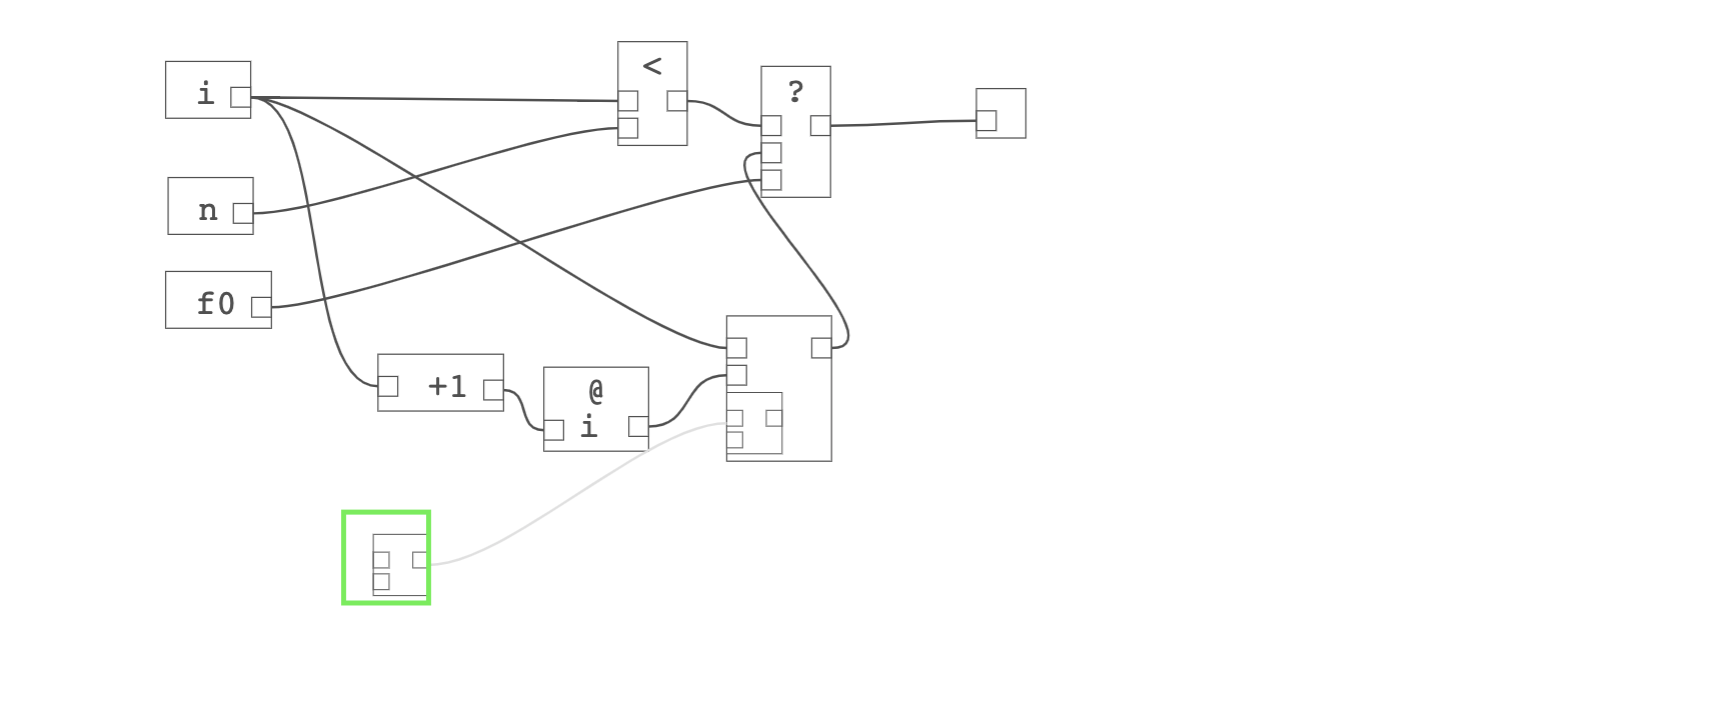
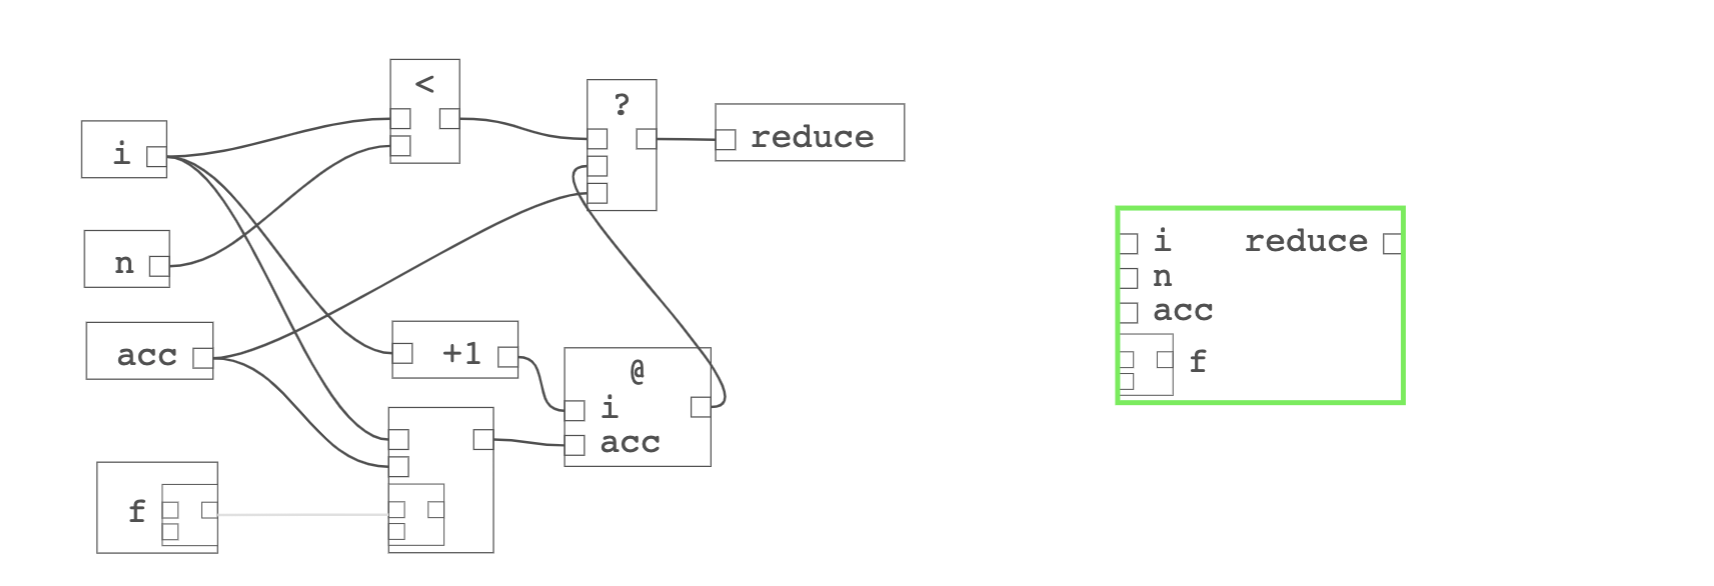
More readme

diff --git a/circuits.js b/circuits.js
@@ -1646,6 +1646,11 @@ function Editor(model, textInputController) {
       master: '[vvv,v](?)',
   });
 
+  // Object reference.
+  primitives.push({
+      type: 'element',
+      master: '[,v[v,v]](let)',
+  });
   // Object adapter.
   primitives.push({
       type: 'element',
@@ -1655,11 +1660,6 @@ function Editor(model, textInputController) {
   primitives.push({
       type: 'element',
       master: '[,v(n)[v,v][vv,v]]([])',
-  });
-  // String adapter.
-  primitives.push({
-      type: 'element',
-      master: '[v,v(length)[vv,v](indexOf)[vv,v](lastIndexOf)[v,v](charAt)[vv,v](substring)](string)',
   });
   // Set adapter.
   primitives.push({
@@ -1671,6 +1671,11 @@ function Editor(model, textInputController) {
       type: 'element',
       master: '[,v(size)[v,v](get)[vv,v](set)[v,v](has)[v,v](delete)[,v](clear)](map)',
   });
+  // // String adapter.
+  // primitives.push({
+  //     type: 'element',
+  //     master: '[v,v(length)[vv,v](indexOf)[vv,v](lastIndexOf)[v,v](charAt)[vv,v](substring)](string)',
+  // });
 
   this.primitives = primitives;
 

diff --git a/README.md b/README.md
@@ -93,7 +93,41 @@ Let's try a more typical iteration, equivalent to the following for loop in Java
   <img src="/resources/iteration.png"  alt="" title="Iteration to add numbers from i to n">
 </figure>
 
-It would be cumbersome to have to create this graph every time we wanted to iterate over a range of integers. But we can abstract the binary operation at the heart of this to create a generic iteration that is more useful.
+This graph is recursive and equivalent to the following Javascript:
+
+```js
+		let n, f0;
+    // f closes over n, f0.
+		function f(i) {
+			return i < n ? i + f(i + 1) : f0;
+	  }
+    return f(0);
+```
+
+Another way to do this uses an accumulator. This recursion is closer to the for loop.
+
+<figure>
+  <img src="/resources/iteration1.png"  alt="" title="Iteration to add numbers from i to n">
+</figure>
+
+```js
+		let n, acc;
+    // f closes over n, acc.
+		function f(i, acc) {
+			return i < n ? f(i + 1, i + acc) : acc;
+	  }
+    return f(0, 0);
+```
+
+```js
+		let acc = 0;
+		for (let i = 0; i < n; i++) {
+			acc += i;
+		}
+		return acc;
+```
+
+Summing an integer range isn't really useful, and it would be cumbersome to have to create these graphs every time we wanted to iterate over a range of integers. But we can abstract the binary operation at the heart of this to create a generic iteration over an integer range that is more useful.
 
 <figure>
   <img src="/resources/iteration2.png"  alt="" title="Iteration to apply binary op to range">
@@ -109,8 +143,8 @@ Using this more generic function, we can easily create a factorial function.
 
 Without state, we are limited to pure functional programming. One of our goals is to map directly to hardware, where we also have state. Let's introduce two new stateful functions, which allow us to "open up" values as objects or arrays.
 
-1. On the left is the "object" function, which takes a value as input and returns two functions. The first is the "getter" which takes a key value as input and returns a value. The second is the "setter" which takes a key and value, updates that field of the object and returns the previous value.
-2. On the right is the "array" function, which takes an object and returns the length, a "getter" function which takes an index and returns the value at that index, and a setter function which takes an index and value, updates the array at that index and returns the previous value.
+1. On the left is the "object" adapter, which takes a value as input and returns two functions. The first is the "getter" which takes a key value as input and returns a value. The second is the "setter" which takes a key and value, updates that field of the object and returns the previous value.
+2. On the right is the "array" adapter, which takes an object and returns the length, a "getter" function which takes an index and returns the value at that index, and a setter function which takes an index and value, updates the array at that index and returns the previous value.
 
 <figure>
   <img src="/resources/state.png"  alt="" title="Stateful objects">
@@ -122,9 +156,11 @@ State allows us to perform more complex computations. Let's sum the elements of 
   <img src="/resources/state_and_iteration.png"  alt="" title="Iteration over stateful object">
 </figure>
 
-In the top left, we apply the array getter, and pass it as the first operand of an addition. This can be grouped and closed to create a function import for our iteration. We only need to set the range to [0..n-1] and pass an initial value of 0.
+In the top left, we apply the array getter, and pass it as the first operand of an addition. We add pins for the inputs that come from the iteration. This can be grouped and closed to create a function import for our iteration. On the bottom we hook it up, set the range to [0..n-1] and pass an initial 'acc' of 0.
 
 ## Quicksort
+
+Quicksort is challenging to implement graphically. Let's try. Here is the source for a Javascript implementation of Quicksort which does the partition step in place. We'll start by implementing the iterations which advance indices to a pair of out of place elements.
 
 ```js
 function partition(a, i, j) {
@@ -144,6 +180,12 @@ function qsort(a, i, j) {
   qsort(a, k + 1, j);
 }
 ```
+
+<figure>
+  <img src="/resources/quicksort.png"  alt="" title="Quicksort partition-in-place loop">
+</figure>
+
+## Stateful Iteration Protocols
 
 ## Semantic Details
 
